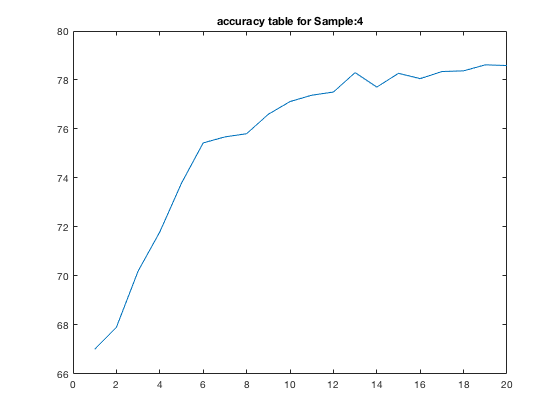
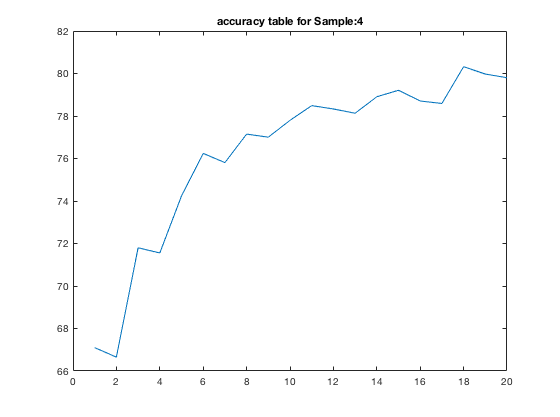
New images with updated data

diff --git a/matlab/bikeSharePredictTBOptPred.m b/matlab/bikeSharePredictTBOptPred.m
@@ -1,6 +1,6 @@
 load 'bikeShareData.mat';
 
-NTress_values = [20];
+NTress_values = [10];
 sample_Values = [3:12];
 accuraciesTB = zeros(size(sample_Values, 2), 1);
 for samp = 1:size(sample_Values, 2)
